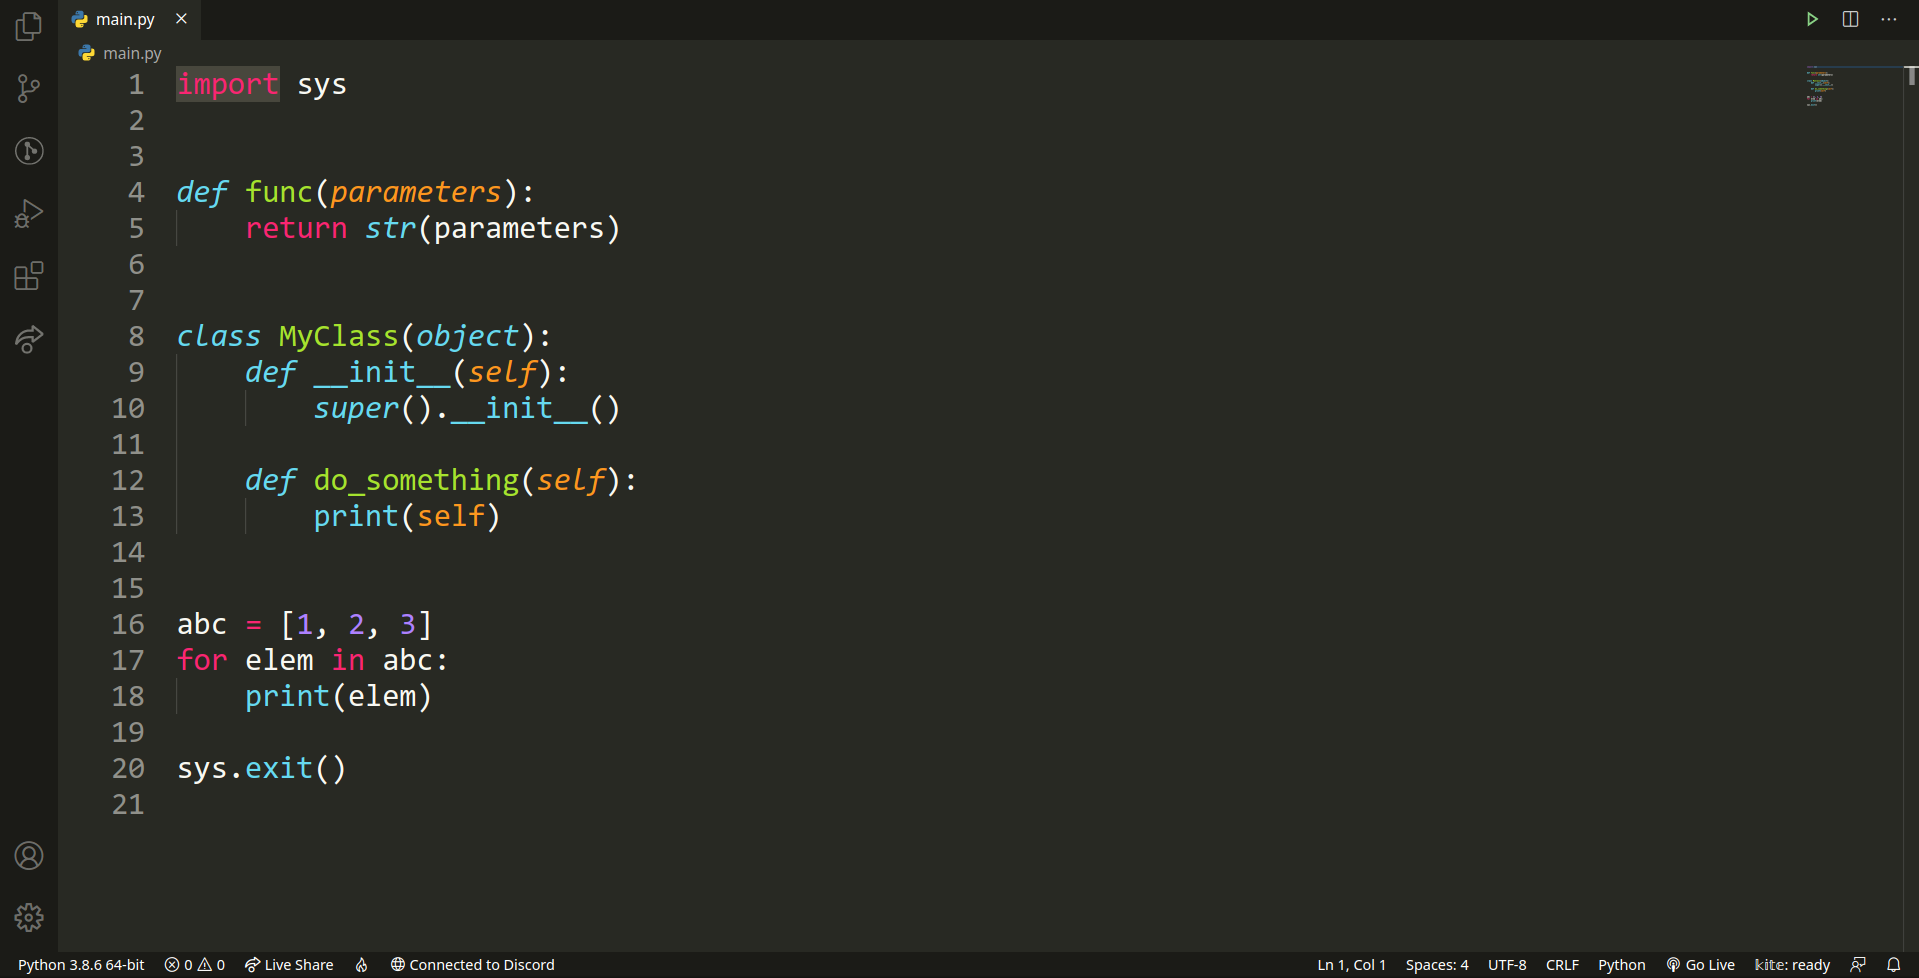
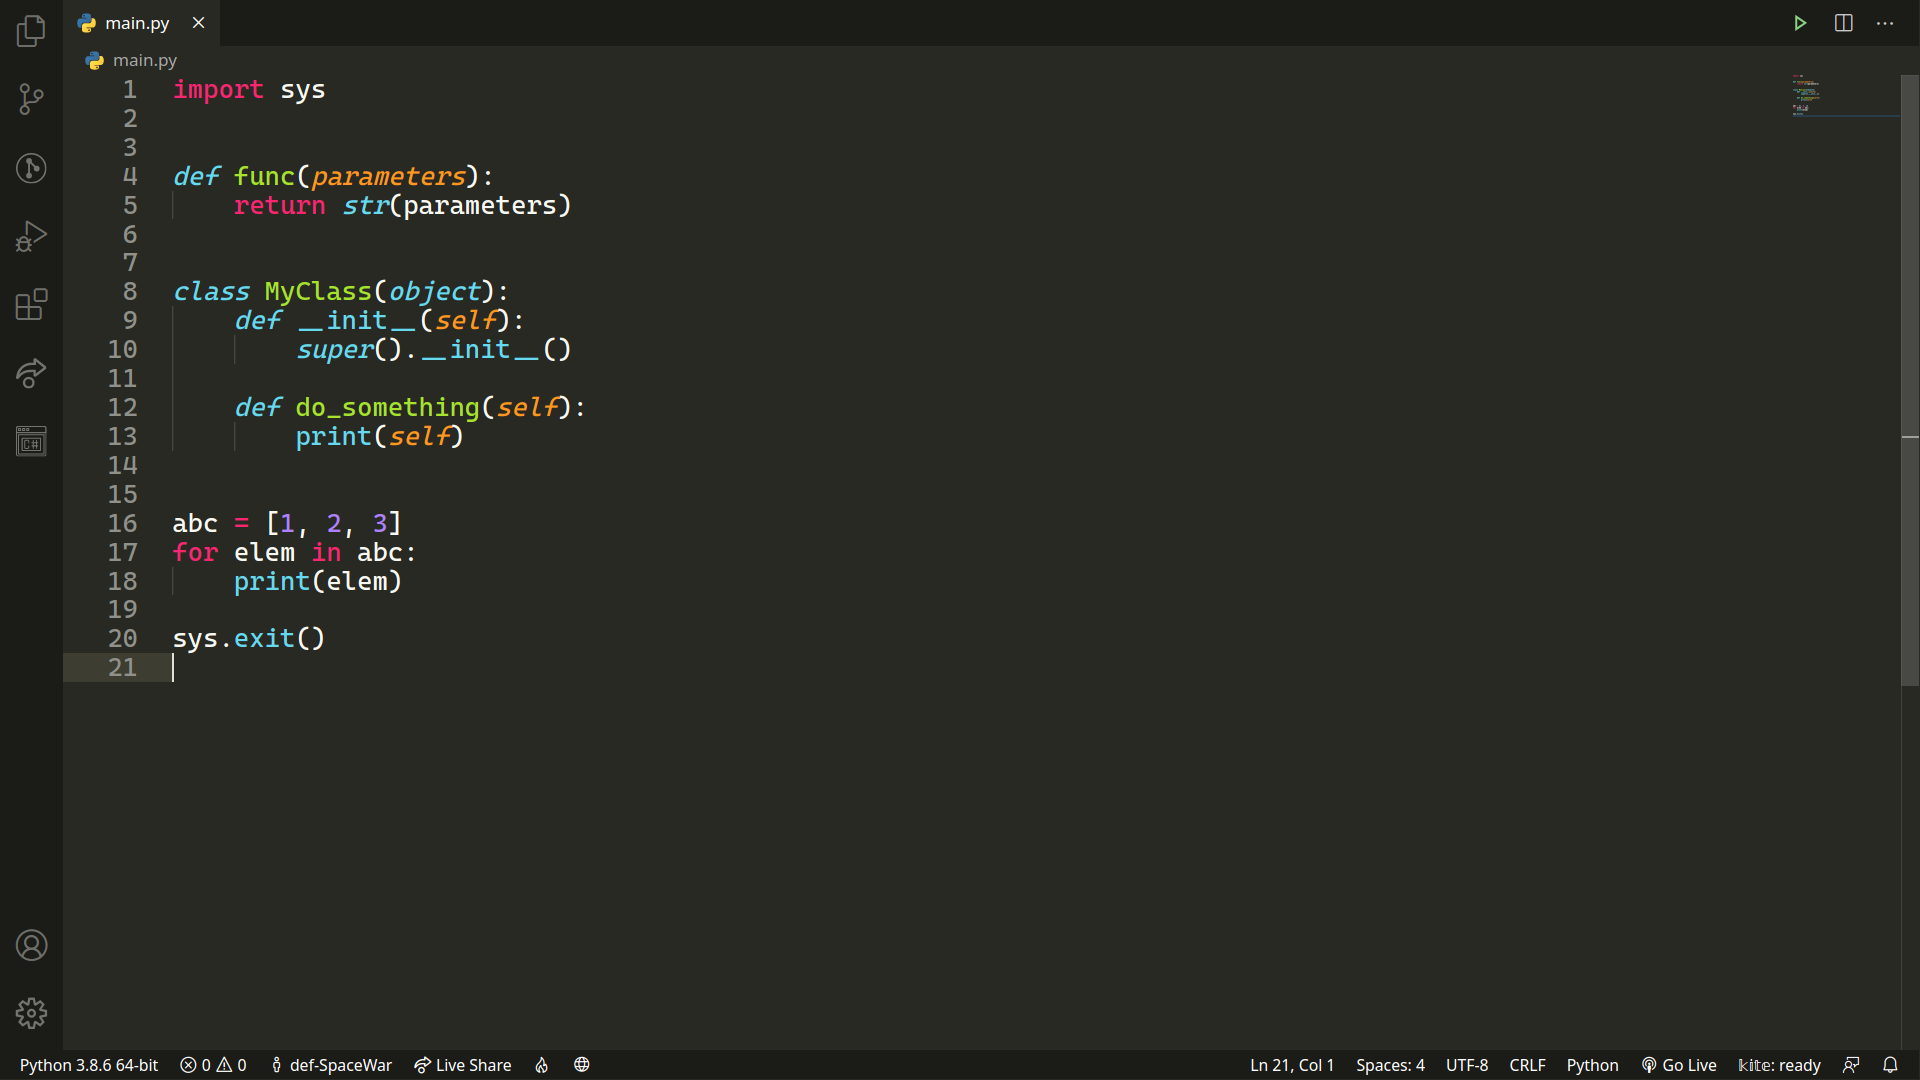
Changed JSON coloring

diff --git a/README.md b/README.md
@@ -13,23 +13,10 @@ To get the full experience goto your settings.json by doing `Ctrl+Shift+P` and f
 And you'll also need to make sure that in your settings.json to get the full sublime-like experience:
 
 ```json
-"editor.lineHeight": yourFontSize + 4,
+"window.zoomLevel": 1.5,
+"editor.lineHeight": yourFontSize + 2,
 "editor.renderLineHighlight": "gutter",
 ```
-
-since
-
-<img src="./s1.png">
-
-<br />
-
-<img src="./s3.png">
-
-Which is in the default sublime text settings and what makes it so beautiful.
-
-This is mine:
-
-<img src="./s2.png">
 
 Screenshot:
 
